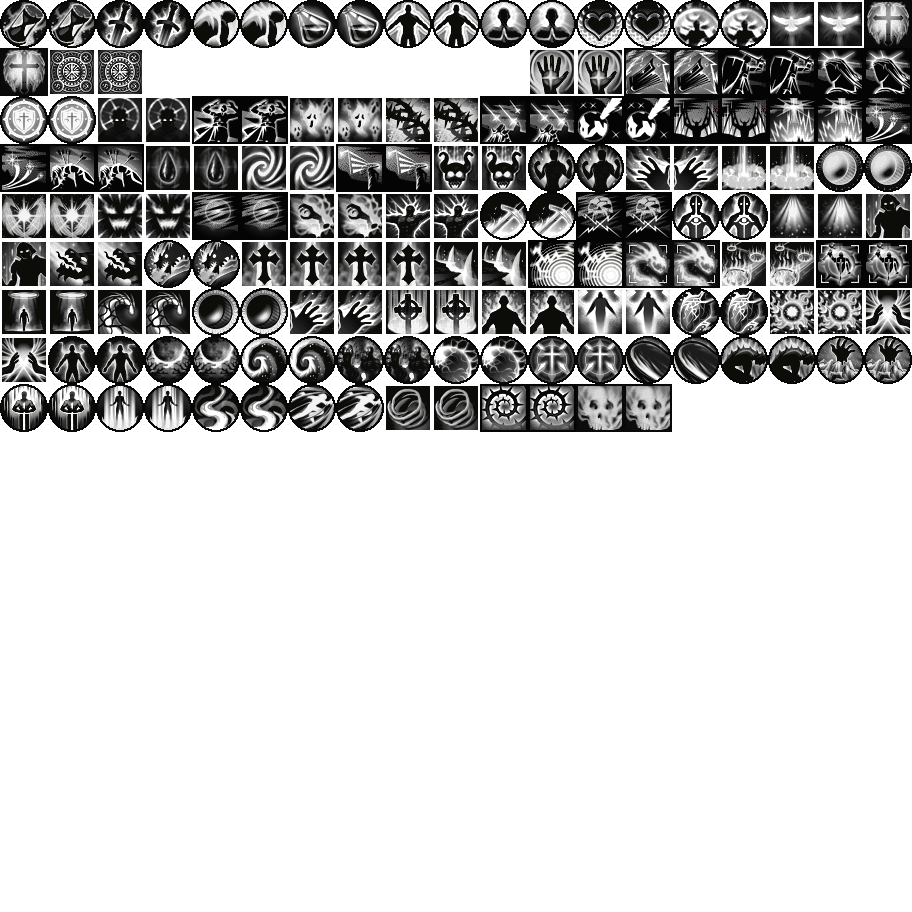
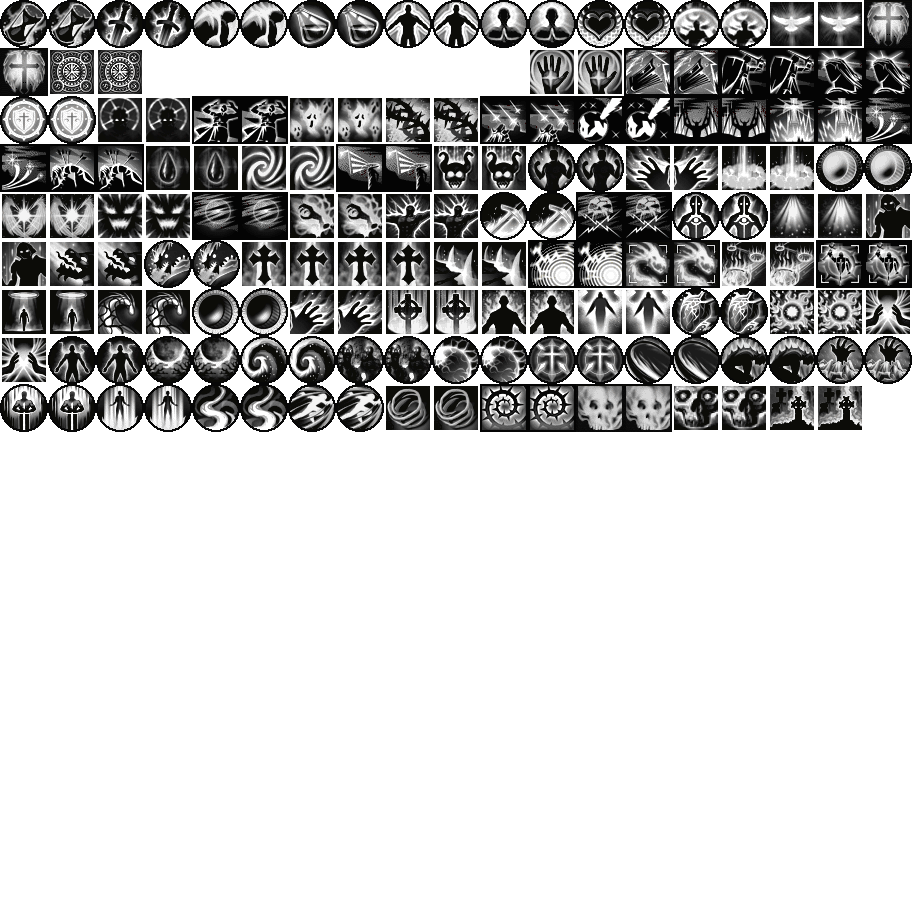
Added few skills

Changed region(s): [[0.7368, 0.3991, 0.9518, 0.4912]]

diff --git a/skills/formula-evaluator.js b/skills/formula-evaluator.js
@@ -10,6 +10,10 @@
  * - Example: If lvl=10, "lvl/3" = 3 but "1/3*lvl" = 0
  */
 
+const lvlBreakpoints = [[0, 1], [1, 8], [8, 16], [16, 22], [22, 28], [28, null]];
+const lengthLvlBreakpoints = [[0, 1], [1, 8], [8, 16], [16, null]];
+const framesPerSecond = 25;
+
 export class FormulaEvaluator {
   constructor(characterState = null) {
     // Use registries instead of hardcoded maps
@@ -65,11 +69,11 @@ export class FormulaEvaluator {
     this.registerFunction({
       keyword: 'frames',
       function: (frames) => {
-        // Convert frames to seconds (25 frames per second) with 0.01 rounding
-        return Math.floor((frames / 25) * 100) / 100;
+        // Convert frames to seconds with 0.01 rounding
+        return Math.floor((frames / framesPerSecond) * 100) / 100;
       },
-      description: 'Converts frame count to seconds (25 frames = 1 second) with 0.01 rounding',
-      example: 'frames(25) == 1.0, frames(1) == 0.04'
+      description: `Converts frame count to seconds (${framesPerSecond} frames = 1 second) with 0.01 rounding`,
+      example: `frames(${framesPerSecond}) == 1.0, frames(1) == ${1/framesPerSecond}`
     });
     this.registerFunction({
       keyword: 'range',
